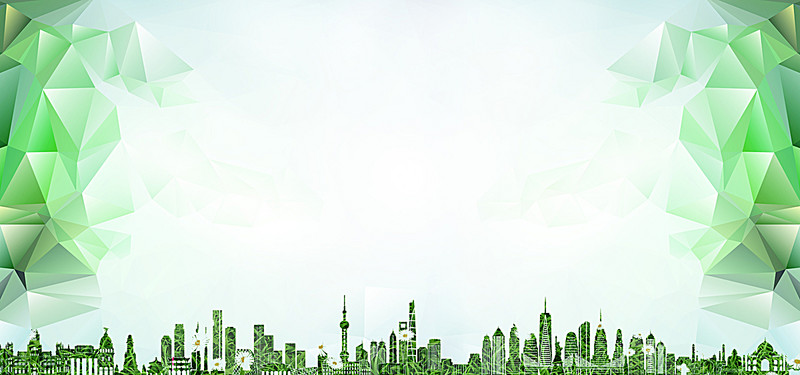
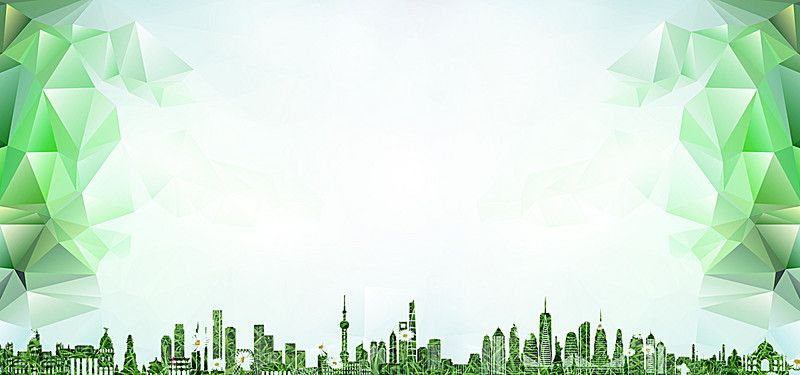
Forms border and assets optimized

diff --git a/source/styles.js b/source/styles.js
@@ -1,9 +1,13 @@
 import React from 'react';
 import { StyleSheet, Platform } from 'react-native';
 
+const mainColor = '#1d814c';
+const secondaryColor = '#eaffe3';
+const accentColor = '#dffad6';
+
 export default styles = StyleSheet.create({
   content: {
-    backgroundColor: '#dffad6'
+    backgroundColor: secondaryColor
   },
   container: {
     flex: 1,
@@ -29,18 +33,18 @@ export default styles = StyleSheet.create({
   },
   anatomy: {
     margin: 0,
-    backgroundColor: '#1d814c',
+    backgroundColor: mainColor,
     padding: 0,
   },
   largeButton: {
     width: 300,
     height: 40,
     margin: 15,
-    backgroundColor: '#1d814c',
+    backgroundColor: mainColor,
     alignSelf: 'center'
   },
   footerButton: {
-    backgroundColor: '#1d814c',
+    backgroundColor: mainColor,
     padding: 0
   },
   h3s: {
@@ -94,7 +98,7 @@ export default styles = StyleSheet.create({
     flexDirection: 'column',
     justifyContent: 'center',
     alignItems: 'center',
-    backgroundColor: '#eaffe3'
+    backgroundColor: accentColor
   },
   footerButtonText: {
     color: 'white',
@@ -109,7 +113,7 @@ export default styles = StyleSheet.create({
     flexDirection: 'row',
     justifyContent: 'space-between',
     alignItems: 'center',
-    padding: 15
+    padding: 15,
   },
   pickerIosListItemContainer: {
     flex: 1,
@@ -126,22 +130,25 @@ export default styles = StyleSheet.create({
   },
   textarea: {
     marginTop: 10,
-    marginStart: 15
+    marginStart: 15,
+    fontSize: 18,
+    borderColor: mainColor
   },
   inputs: {
     marginTop: 5,
     marginBottom: 5,
+    borderColor: mainColor
   },
   tab: {
-    backgroundColor: '#1d814c',
+    backgroundColor: mainColor,
   },
   activeTab: {
-    backgroundColor: '#1d814c',
+    backgroundColor: mainColor,
     fontStyle: 'italic',
   },
   tabs: {
     borderBottomWidth: 2,
-    borderBottomColor: '#1d814c',
+    borderBottomColor: mainColor,
     backgroundColor: 'white',
   },
   tabsText: {
@@ -153,10 +160,10 @@ export default styles = StyleSheet.create({
   },
   accordionContent: {
     textAlign: 'justify',
-    backgroundColor: '#dffad6'
+    backgroundColor: secondaryColor
   },
   accordionContainer: {
     marginTop: 0, 
-    backgroundColor: '#dffad6'
+    backgroundColor: secondaryColor
   }
 });

diff --git a/source/Developers.js b/source/Developers.js
@@ -1,0 +1,41 @@
+import React from 'react';
+import { useNavigation } from 'react-navigation-hooks';
+import { StyleSheet, View, Image, Platform, StatusBar } from 'react-native';
+import { Container, Header, Title, Content, Button, H1, Left, Right, Body, Icon, Text, H2 } from 'native-base';
+import styles from './styles';
+
+export default function Developers() {
+  const navigation = useNavigation();
+  
+  return (
+    <Container>
+      <Header style={styles.anatomy} androidStatusBarColor='#2d914c'>
+        <Left style={styles.sideHeaderButtonContainer}>
+          <Button transparent onPress={() => { navigation.goBack() }}>
+            <Icon name='arrow-back' style={{color: 'white'}} />
+          </Button>
+        </Left>
+        <Body style={styles.headerBody}>
+          <Title style={styles.whiteButtons}>Sobre a Aplicação</Title>
+        </Body>
+        <Right style={styles.sideHeaderButtonContainer}>
+          <Button transparent onPress={() => { navigation.openDrawer() }}>
+            <Icon name='menu' style={styles.whiteButtons} />
+          </Button>
+        </Right>
+      </Header>
+      <Content style={styles.content}>
+        <View style={styles.container}>
+          <H2 style={styles.h3s}>Desenvolvimento da Aplicação:</H2>
+          <Text style={styles.generalTexts}>Aplicativo: Andrei Gabriel Santos Deniz</Text>
+          <Text style={styles.generalTexts}><Icon name='logo-github' /> @Skadushi</Text>
+          <Text style={styles.generalTexts}>Servidor: Diego José da Silva Ribeiro</Text>
+          <Text style={styles.generalTexts}><Icon name='logo-github' /> @DiRibeiro</Text>
+          <H2 style={styles.h3s}>Orientação:</H2>
+          <Text style={styles.generalTexts}>Bruno Chagas Alves Fernandes</Text>
+          <Text style={styles.generalTexts}>Diana Cabral Cavalcanti</Text>
+        </View>
+      </Content>
+    </Container>
+  );
+}   

diff --git a/source/Gathering.js b/source/Gathering.js
@@ -1,6 +1,6 @@
 import React from 'react';
 import { useNavigation } from 'react-navigation-hooks';
-import { StyleSheet, View, Image, Platform, StatusBar } from 'react-native';
+import { StyleSheet, View, Image, Platform, StatusBar, Alert } from 'react-native';
 import { Container, Header, Content, Tabs, Tab, ScrollableTab, Footer, FooterTab, Button, Title, Left, Right, Body, Icon, Text } from 'native-base';
 import styles from './styles';
 
@@ -38,7 +38,7 @@ export default function Gathering() {
       </Tabs>
       <Footer>
         <FooterTab style={styles.anatomy}>
-          <Button full style={styles.footerButton} onPress={() => { navigate('Scheduling') }}>
+          <Button full style={styles.footerButton} onPress={() => { Alert.alert('Localização', 'Aqui irá a localização dos caminhões', [ { text: 'Ok' } ]) }}>
             <Text style={styles.footerButtonText}>
               <Icon style={styles.footerButtonText} name='navigate' /> Caminhões
             </Text>

diff --git a/source/Navigation/Navigator.js b/source/Navigation/Navigator.js
@@ -15,6 +15,7 @@ import ComplaintsHelp from '../ComplaintsHelp';
 import Scheduling from '../Scheduling';
 import Calendar from '../Calendar';
 import Gathering from '../Gathering';
+import Developers from '../Developers';
 
 const Drawer = createDrawerNavigator(
   {
@@ -28,6 +29,7 @@ const Drawer = createDrawerNavigator(
     Scheduling: { screen: Scheduling },
     Calendar: { screen: Calendar },
     Gathering: { screen: Gathering },
+    Developers: { screen: Developers },
   },
   {
     initialRouteName: 'Home',
@@ -51,7 +53,8 @@ const RootStack = createStackNavigator(
     Mural: { screen: Mural },
     Scheduling: { screen: Scheduling },
     Calendar: { screen: Calendar },
-    Gathering: { screen: Gathering }
+    Gathering: { screen: Gathering },
+    Developers: { screen: Developers },
   },
   {
     initialRouteName: 'Drawer',

diff --git a/source/Home.js b/source/Home.js
@@ -20,7 +20,7 @@ export default function Home() {
           <Title style={styles.whiteButtons}>Jogue Limpo</Title>
         </Body>
         <Right style={styles.sideHeaderButtonContainer}>
-          <Button transparent onPress={() => { navigation.openDrawer() }}>
+          <Button transparent onPress={() => { navigate('Developers') }}>
             <Icon name='planet' style={{color: '#1d844c'}}/>
           </Button>
         </Right>

diff --git a/source/Navigation/style.js b/source/Navigation/style.js
@@ -6,7 +6,7 @@ const deviceWidth = Dimensions.get('window').width;
 
 export default {
   content: {
-    backgroundColor: '#dffad6'
+    backgroundColor: '#eaffe3'
   },
   drawerCover: {
     alignSelf: 'stretch',
